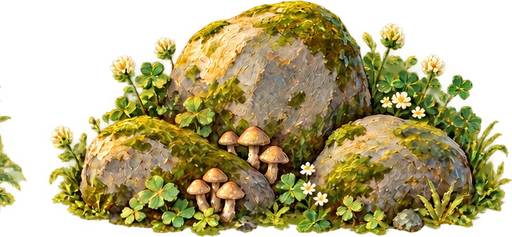
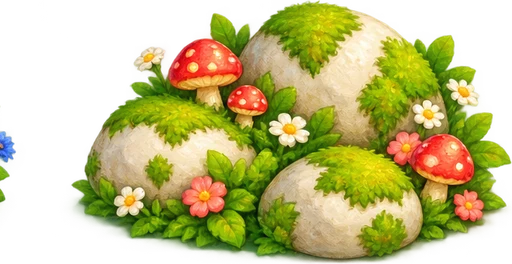
Make the storybook garden brighter and more whimsical

diff --git a/exterior.js b/exterior.js
@@ -1,12 +1,12 @@
 /* Cosmetic world outside the playable room. All coordinates stay in shop tiles. */
 (function(root){'use strict';
 const styles={timber:{name:'木のガラス扉',frame:'#885a35',leaf:'#bd8b4c',awning:'#c78d50'},sage:{name:'セージの扉',frame:'#4d6959',leaf:'#83a08a',awning:'#718e76'},arch:{name:'アーチの扉',frame:'#b0754d',leaf:'#cd9c65',awning:'#b66f4f'}};
-const textures={},listeners=[];const scenery=['apple-tree','birch-tree','flowers','moss-stones'];let pending=10;
-if(typeof Image!=='undefined')for(const name of ['meadow','sand','road','door-timber','door-sage','door-arch',...scenery]){const im=new Image();im.onload=()=>{textures[name]=im;done()};im.onerror=done;im.src='assets/exterior/'+name+'.webp?v=2'}
+const textures={},listeners=[];const scenery=['apple-tree','blossom-tree','flowers','moss-stones'];let pending=10;
+if(typeof Image!=='undefined')for(const name of ['meadow','sand','road','door-timber','door-sage','door-arch',...scenery]){const im=new Image();im.onload=()=>{textures[name]=im;done()};im.onerror=done;im.src='assets/exterior/'+name+'.webp?v=3'}
 function done(){if(--pending===0)for(const fn of listeners.splice(0))fn()}
 function ready(fn){if(pending===0)fn();else listeners.push(fn)}
 function poly(c,pts,color,stroke){c.beginPath();pts.forEach((p,i)=>i?c.lineTo(p.x,p.y):c.moveTo(p.x,p.y));c.closePath();if(color){c.fillStyle=color;c.fill()}if(stroke){c.strokeStyle=stroke;c.lineWidth=.7;c.stroke()}}
-function quad(c,p,x,y,w,h,color,texture){const a=p(x,y),b=p(x+w,y),d=p(x,y+h);poly(c,[a,b,p(x+w,y+h),d],color);const im=textures[texture];if(im){c.save();c.transform((b.x-a.x)/w,(b.y-a.y)/w,(d.x-a.x)/h,(d.y-a.y)/h,a.x,a.y);c.globalAlpha=.72;const pattern=c.createPattern(im,'repeat');c.scale(1/64,1/64);c.fillStyle=pattern;c.fillRect(0,0,w*64,h*64);c.restore()}}
+function quad(c,p,x,y,w,h,color,texture){const a=p(x,y),b=p(x+w,y),d=p(x,y+h);poly(c,[a,b,p(x+w,y+h),d],color);const im=textures[texture];if(im){c.save();c.transform((b.x-a.x)/w,(b.y-a.y)/w,(d.x-a.x)/h,(d.y-a.y)/h,a.x,a.y);c.globalAlpha=texture==='meadow'?.6:.94;const pattern=c.createPattern(im,'repeat');const density=texture==='meadow'?40:64;c.scale(1/density,1/density);c.fillStyle=pattern;c.fillRect(0,0,w*density,h*density);c.restore()}}
 function stroke(c,pts,color,width){c.strokeStyle=color;c.lineWidth=width;c.beginPath();pts.forEach((p,i)=>i?c.lineTo(p.x,p.y):c.moveTo(p.x,p.y));c.stroke()}
 let terrainCache=null;
 function background(c,p,w,h,entry,tx){
@@ -17,7 +17,7 @@ function background(c,p,w,h,entry,tx){
 // Stable brush dabs and sprite positions are scenery, never simulation state.
 function dab(c,p,x,y,tx,i){
  const a=p(x,y);c.save();c.translate(a.x,a.y);c.rotate((i%7-3)*.19);
- c.fillStyle=['#9dba8070','#d9ce9270','#6f926575','#b8bf8870'][i%4];
+ c.fillStyle=['#8cc96f60','#f5dc7660','#50995745','#a2d97c55'][i%4];
  c.beginPath();c.ellipse(0,0,tx*(.18+i%3*.09),tx*.08,0,0,Math.PI*2);c.fill();c.restore();
 }
 function scenerySprite(c,p,name,x,y,width,tx){
@@ -25,26 +25,30 @@ function scenerySprite(c,p,name,x,y,width,tx){
  c.drawImage(im,a.x-sw/2,a.y-sh,sw,sh);
 }
 function paintBackground(c,p,w,h,entry,tx){
- quad(c,p,-100,-100,w+200,h+220,'#9ba77b','meadow');
+ quad(c,p,-100,-100,w+200,h+220,'#71bd58','meadow');
  // Broken brushwork softens the edge of the earth instead of a rectangular apron.
  for(let i=0;i<480;i++){const x=-26+(i*137%601)/10,y=-24+(i*193%631)/10;dab(c,p,x,y,tx,i)}
- quad(c,p,-.65,-.65,w+1.3,h+1.3,'#ceba91','sand');
+ quad(c,p,-.65,-.65,w+1.3,h+1.3,'#efd095','sand');
  const front=h+3.2;
- quad(c,p,-40,front-.35,w+80,4.15,'#b6b08b','sand');
- quad(c,p,-40,front,w+80,3.5,'#959783','road');
- quad(c,p,entry.x-.2,h+.05,1.4,front-h-.05,'#d6be93','sand');
+ quad(c,p,-40,front-.35,w+80,4.15,'#efd4a3','sand');
+ quad(c,p,-40,front,w+80,3.5,'#e8ca9b','road');
+ quad(c,p,entry.x-.2,h+.05,1.4,front-h-.05,'#f3d296','sand');
  // Paint a soft, ragged verge along both sides of the old village lane.
  for(let i=0;i<180;i++){const x=-25+i*.38;for(const y of [front-.4,front+3.9])dab(c,p,x,y+(i%5)*.055,tx,i)}
  const plants=[];
- // Tall trees stay beyond the rear and side walls, clear of the playable room.
- for(let i=0;i<8;i++){plants.push(['apple-tree',-10+i*4.1,-5.2-(i*7%5)*.8,8.4+(i*3%5)*.55]);plants.push(['birch-tree',-6.8-(i*3%4)*1.1,-8+i*2.7,6.3+(i*7%5)*.4])}
- plants.push(['apple-tree',w+4,-2,8.8],['birch-tree',w+5,2,7.2]);
+ // Rounded fruit and blossom trees form loose garden groups, never a looming wall.
+ for(const [name,x,y,width] of [
+  ['blossom-tree',-5.2,4.8,6.8],['apple-tree',-6.8,-1.5,6.4],
+  ['blossom-tree',-3.6,-5.5,7.2],['apple-tree',2.5,-7.3,6.8],
+  ['blossom-tree',8.2,-6.2,7.6],['apple-tree',w+1.8,-4.4,6.6],
+  ['blossom-tree',w+4.2,1.2,7.1],['apple-tree',w+4.6,5.5,6.3]
+ ])plants.push([name,x,y,width]);
  for(let i=0;i<15;i++){
   const x=-10+(i*73%293)/10,y=h+8+(i*47%107)/10;
-  plants.push([i%4===0?'moss-stones':'flowers',x,y,2.2+i%3*.5]);
+  plants.push([i%4===0?'moss-stones':'flowers',x,y,2.8+i%3*.55]);
  }
- for(let i=0;i<8;i++)plants.push([i%3===0?'moss-stones':'flowers',i%2?-2.1:w+2.2,-1+i*1.7,1.8+i%3*.3]);
- plants.push(['flowers',entry.x-1.4,h+1.8,1.6],['flowers',entry.x+2.1,h+1.8,1.6]);
+ for(let i=0;i<8;i++)plants.push([i%3===0?'moss-stones':'flowers',i%2?-2.1:w+2.2,-1+i*1.7,2.2+i%3*.35]);
+ plants.push(['flowers',entry.x-1.4,h+1.8,2.1],['flowers',entry.x+2.1,h+1.8,2.1]);
  plants.sort((a,b)=>(a[1]+a[2])-(b[1]+b[2]));
  for(const [name,x,y,width] of plants)scenerySprite(c,p,name,x,y,width,tx);
 }
@@ -52,8 +56,8 @@ function roadside(c,p,w,h,entry,tx){const y=h+7.1;
  // Weathered cream wooden rails and warm lanterns belong to the painted village.
  c.save();c.lineCap='round';
  for(let x=-4;x<w+5;x+=2){if(Math.abs(x-entry.x)<2)continue;const a=p(x,y),b=p(x+1.7,y);
-  for(const q of [a,b]){stroke(c,[q,{x:q.x,y:q.y-tx*.65}],'#82745b',tx*.13);stroke(c,[{x:q.x-tx*.025,y:q.y},{x:q.x-tx*.025,y:q.y-tx*.63}],'#d1c49e',tx*.065)}
-  for(const z of [.3,.55])stroke(c,[{x:a.x,y:a.y-tx*z},{x:b.x,y:b.y-tx*z}],'#c6bd97',tx*.1);
+  for(const q of [a,b]){stroke(c,[q,{x:q.x,y:q.y-tx*.65}],'#82745b',tx*.13);stroke(c,[{x:q.x-tx*.025,y:q.y},{x:q.x-tx*.025,y:q.y-tx*.63}],'#fff0c9',tx*.065)}
+  for(const z of [.3,.55])stroke(c,[{x:a.x,y:a.y-tx*z},{x:b.x,y:b.y-tx*z}],'#f6e4be',tx*.1);
  }
  for(const x of [-2.5,w+2.5]){const a=p(x,h+2.1),top={x:a.x,y:a.y-tx*3.6};
   stroke(c,[a,top],'#786549',tx*.2);stroke(c,[{x:a.x-tx*.035,y:a.y},{x:top.x-tx*.035,y:top.y}],'#baa078',tx*.07);

diff --git a/index.html b/index.html
@@ -27,7 +27,7 @@
 <dialog id="reportDialog" aria-labelledby="reportTitle"><h2 id="reportTitle">営業の収支</h2><dl><div><dt>売上</dt><dd id="reportSales"></dd></div><div><dt>材料費</dt><dd id="reportMaterials"></dd></div><div><dt>営業利益</dt><dd id="reportProfit"></dd></div><div><dt>設備購入</dt><dd id="reportEquipment"></dd></div><div><dt>内装費</dt><dd id="reportInterior"></dd></div><div><dt>増築費</dt><dd id="reportExpansion"></dd></div><div><dt>商品開発・飾り付け</dt><dd id="reportDevelopment"></dd></div><div><dt>撤去の返金</dt><dd id="reportRefunds"></dd></div><div><dt>所持金の増減</dt><dd id="reportCash"></dd></div><div><dt>所持金</dt><dd id="reportCoins"></dd></div></dl><p id="reportCounts" class="report-note"></p><p id="reportNote" class="report-note"></p><div class="report-actions"><button id="closeReport">閉じる</button></div></dialog>
 <dialog id="staffDialog" aria-labelledby="staffTitle"><h2 id="staffTitle">スタッフへの指示</h2><div class="staff-tabs"><button data-staff="owner">店主</button><button data-staff="noah">ノア</button></div><p id="staffStatus" role="status"></p><label>通常の担当<select id="staffRole"><option value="kitchen">製造担当</option><option value="hall">陳列・会計担当</option><option value="all">全般</option><option value="supply">仕入れ担当</option><option value="idle">待機（個別指示のみ）</option></select></label><div class="job-buttons"><button data-job="supply">仕入れ 30円／5個分</button><button data-job="produce">製造 5個</button><button data-job="stock">陳列</button><button data-job="checkout">レジ会計</button></div><p class="report-note">個別指示を次の優先作業にします。現在の仕事は完了してから切り替えます。通常の担当は必要に応じて自動で働きます。開店前も作業します。</p><details><summary>見た目のサイズ</summary><label>高さ <output id="heightValue"></output><input id="lookHeight" type="range" min="0.7" max="1.3" step="0.05"></label><label>太さ <output id="widthValue"></output><input id="lookWidth" type="range" min="0.7" max="1.3" step="0.05"></label><label>全体サイズ <output id="scaleValue"></output><input id="lookScale" type="range" min="0.7" max="1.3" step="0.05"></label><p class="report-note">占有は常に1マス。足元と通路判定は変わりません。</p></details><div class="report-actions"><button id="closeStaff">閉じる</button></div></dialog>
 
-<script src="assets/product-art.js?v=13"></script><script src="products.js?v=14"></script><script src="shop-status.js?v=10"></script><script src="experience.js?v=13"></script><script src="assets/doors/geometry.js?v=1"></script><script src="door-art.js?v=1"></script><script src="interior.js?v=10"></script><script src="exterior.js?v=3"></script><script src="viewport.js?v=1"></script><script src="customer-art.js?v=1"></script><script src="workforce.js?v=11"></script><script src="character-motion.js?v=1"></script><script src="assets/characters/actions/art.js?v=1"></script><script>
+<script src="assets/product-art.js?v=13"></script><script src="products.js?v=14"></script><script src="shop-status.js?v=10"></script><script src="experience.js?v=13"></script><script src="assets/doors/geometry.js?v=1"></script><script src="door-art.js?v=1"></script><script src="interior.js?v=10"></script><script src="exterior.js?v=4"></script><script src="viewport.js?v=1"></script><script src="customer-art.js?v=1"></script><script src="workforce.js?v=11"></script><script src="character-motion.js?v=1"></script><script src="assets/characters/actions/art.js?v=1"></script><script>
 (()=>{'use strict';
 const canvas=document.querySelector('canvas'),c=canvas.getContext('2d');
 const furniture={shelf:['パン棚','🥖',2,1,250,'#e6ac67'],oven:['オーブン','🔥',2,2,650,'#c97957'],register:['レジ','💰',2,1,350,'#9bbbab'],prep:['調理台','🥣',2,2,480,'#d0b57f'],table:['テーブル','☕',2,2,220,'#c79c75'],plant:['植木','🌱',1,1,80,'#8abc81']};

diff --git a/docs/art/fancy-landscape/review/index.html b/docs/art/fancy-landscape/review/index.html
@@ -1,0 +1,1 @@
+<!doctype html><html lang="ja"><meta charset="utf-8"><meta name="viewport" content="width=device-width,initial-scale=1"><title>明るい絵本の庭｜こもれびベーカリー</title><style>body{font:16px/1.8 system-ui;background:#fff1d9;color:#684728;max-width:1100px;margin:auto;padding:24px}h1{font-size:26px}a{color:#39804f}.pair{display:flex;flex-wrap:wrap;gap:24px}figure{margin:0;flex:1;min-width:260px;max-width:390px}img{width:100%;border-radius:14px}figcaption{margin:10px 0}nav{display:flex;gap:24px}section{margin:28px 0}</style><h1>花とリンゴの、明るい絵本の庭</h1><p>丸い木とコーラルピンクの花、春の緑、蜂蜜色の小道。油絵の筆触を残しながら、可愛く暖かな庭に整えました。</p><nav><a href="../../../../">ゲーム</a><a href="../README.md">制作・検証</a></nav><section class="pair"><figure><figcaption>変更前</figcaption><img src="before.png" alt="白樺と淡いオリーブ色の旧風景"></figure><figure><figcaption>変更後</figcaption><img src="after.png" alt="丸い花木と鮮やかな草花の新風景"></figure></section><section class="pair"><figure><figcaption>引いて見る（45%）</figcaption><img src="zoom-0.45.png" alt="45%表示"></figure><figure><figcaption>近くの筆触（300%）</figcaption><img src="zoom-3.png" alt="300%表示"></figure></section><section><h2>横画面</h2><img src="shop-844x390.png" alt="横画面の庭"></section></html>

diff --git a/docs/HANDOFF.md b/docs/HANDOFF.md
@@ -2,6 +2,14 @@
 
 更新：2026-10-19。新しいチャットではこの文書を最初に読み、mainと下記の作業ブランチを確認する。直近は二足歩行の動物客8種類。最新節を優先する。
 
+## 2026-10-20：外景をさらに可愛く鮮やかに（今回の作業）
+
+- ユーザーの「外観風景もっとファンシーで可愛いのにして。絵本のイメージは保ちつつ。色も淡すぎる、左部分の木でおどろおどろしい」を受け、外景素材を再制作。制作ブランチ `art/fancy-landscape`。
+- 白樺の細長い木の列をやめ、短い幹と丸い樹冠のリンゴ・コーラルピンクの花木を間隔を空けて配置。鮮やかな春の緑、暖かい砂・クリーム色の石畳、明るい草花と赤いキノコに更新。油彩の重ね塗り・筆触を維持し、草地は店舗より目立たない明暗に調整した。
+- [制作元・再構築](art/fancy-landscape/README.md)、[変更前後と画面](art/fancy-landscape/review/index.html)。再構築は `node tools/art/pack_landscape.cjs docs/art/fancy-landscape blossom-tree`。旧資料の既定コマンドは旧版の外景を出力するため、最新の素材にはこのコマンドを使う。
+- 現行ゲームは `blossom-tree.webp` を読み、旧 `birch-tree.webp` は使わない。扉3種×4方向・動物客8種・室内・経路・保存・営業は維持。外観テストの出力先も最新の `docs/art/fancy-landscape/review/` に変更。
+- 外景10画像・白樺非使用・3扉の切替と保存・配置／資金維持・小画面／横画面・45/300%ズーム・180分6件販売を確認。
+
 ## 2026-10-20：扉の4方向対応（今回の作業）
 
 - ユーザーの「おっけ反映。あとドアも向きに対応できるよう作っといて」を受け、景観PR #11をmainへ取り込み・公開。扉の[PR #12](https://github.com/yyvape-dev/bakery-simulator/pull/12)もmainへ取り込み（`32ea3db`）、公開済み。制作ブランチは `art/directional-doors`。再取り込みは不要。

diff --git a/docs/art/fancy-landscape/README.md b/docs/art/fancy-landscape/README.md
@@ -1,0 +1,17 @@
+# 明るく可愛い絵本の庭
+
+2026-10-20。外景の色が淡く、左側の白樺と木立が不気味に見えるという指摘を受けて再制作。油絵の重ね塗り・筆触を残し、鮮やかな春の緑、コーラルピンクの花、赤いリンゴ、蜂蜜色の小道に変更した。
+
+細長く枝垂れる白樺は使わず、短い幹と丸い樹冠のリンゴ・花木に置換。左側を密な列にせず、店舗を囲む小さな庭のまとまりに配置した。草花を大きくし、石はクリーム色と赤いキノコの明るい素材にした。灰色の道路も暖かなクリーム色の石畳へ置換。砂と石畳は素材の不透明度を72%から94%へ上げた。草地は鮮やかな緑の下地に筆跡を60%で重ね、細かな明暗が店舗より目立たないよう調整した。
+
+店舗・室内・扉3種類×4方向・動物客8種・保存・営業は維持する。新旧セーブとも景色だけを更新する。外の配置や通行機能は追加しない。
+
+生成元：`terrain-atlas.png`（草地・砂・石畳の3列）、`scenery-atlas.png`（上62%：丸いリンゴと花木、下38%：草花と苔石）。画像生成で一式を再制作。再構築：
+
+```
+node tools/art/pack_landscape.cjs docs/art/fancy-landscape blossom-tree
+```
+
+実行時は `assets/exterior/`。`birch-tree.webp` は旧版の資料との互換用に残すが、現行ゲームでは読み込まない。描画の位置は `exterior.js` で店舗寸法に追従する。
+
+[変更前後と画面一覧](review/index.html)。検証：`node tools/tests/exterior.cjs`（新規開始・3扉・保存・配置／資金維持・3画面・45/300%ズーム・180分営業）。
